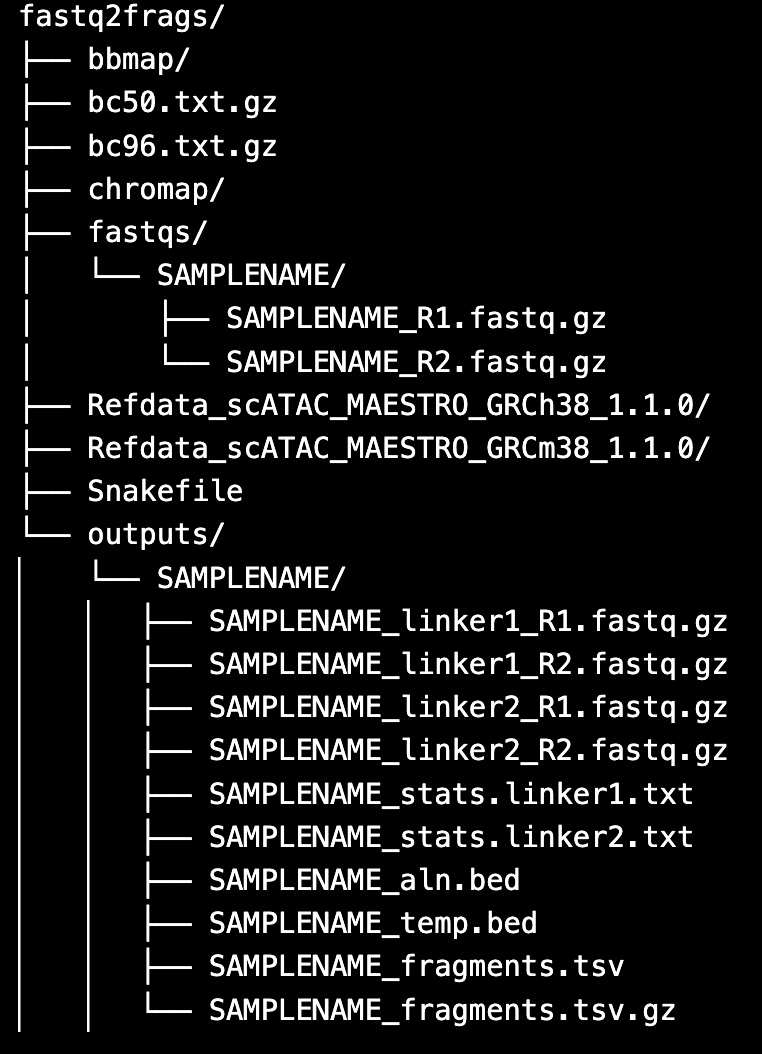
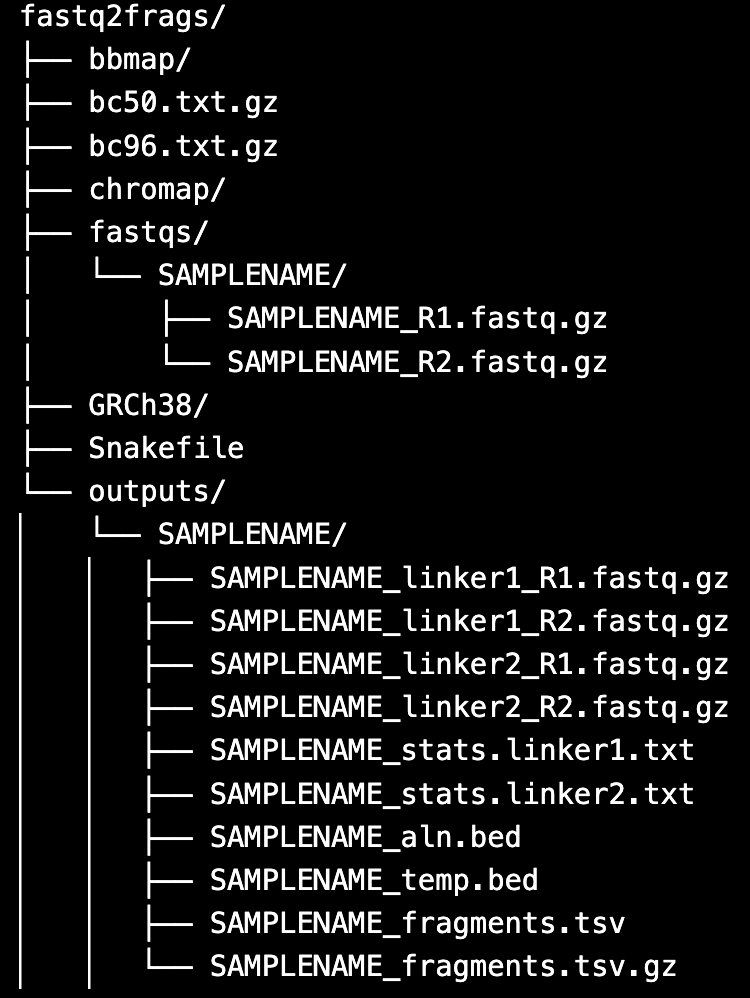
update fastq2frags README

diff --git a/fastq2frags/README.md b/fastq2frags/README.md
@@ -17,43 +17,78 @@ The fastq2frags pipeline requires the barcoding schema described in [Zhang et al
 3. Convert the output file from the [BED format](https://genome.ucsc.edu/FAQ/FAQformat.html#format1) to a fragments.tsv.gz file.
     
 ## setting up the environment
-The ‘fastq2frags' pipeline can be run in an AWS EC2 instance or other cloud computing resource.  We developed the pipeline in an EC2 instance running Red Hat Enterprise Linux 9 (RHEL 9) with 32 cores and 64GB of RAM (ami-08e637cea2f053dfa).  The pipeline requires at least 1 TB free of free disk space.  See below for instructions for setting up an environment for fastq2frags in RHEL 9.
+The ‘fastq2frags' pipeline can be run locally or in an AWS EC2 instance or other cloud computing resource.  We developed the pipeline in an EC2 instance running Red Hat Enterprise Linux 9 (RHEL 9) with 32 cores and 64GB of RAM (ami-08e637cea2f053dfa).  We recommend at least 1 TB free of free disk space for full experiments, but less can be used for testing.  See below for instructions on setting up an environment for fastq2frags in RHEL 9.
 
 **relevant package versions**
 - Chromap: li_dev4
 - BBMap: BBMap_39.01
 
-> For an example of running the pipeline in a high-performance cluster (HPC) see [here](https://github.com/di-0579/Spatial_epigenome-transcriptome_co-sequencing/tree/main/Data_preprocessing/Spatial-ATAC-seq).
+> For an example of running the pipeline in a high-performance cluster (HPC) see [here](https://github.com/di-0579/Spatial_epigenome-transcriptome_co-sequencing/tree/main/Data_preprocessing/Spatial-ATAC-seq). AtlasXomics does not support this repository.
 
-1. Install `git` and set up ssh [access](https://www.theodinproject.com/lessons/foundations-setting-up-git).
+1. Ensure `git` is installed.
     ```
     sudo dnf update 
     sudo dnf install git
+    ```
+    or, for Ubuntu,
+    ```
+    sudo apt-get update -y
+    sudo apt-get install -y git
     ```
 
 2. Install other dependencies. Java v-7 or greater is required to run bbmap. 
     ```
     sudo dnf install curl gcc gcc-c++ java-11-openjdk-devel make unzip zlib-devel
     ```
+    or
+    ```
+    sudo apt-get install curl default-jdk libz-dev
+    ```
 
-3. Install `bgzip`; in RHEL 9, `bgzip` in included as part of [htslib](http://www.htslib.org/download/).
+3. Install `bgzip`. In RHEL 9, `bgzip` in included as part of htslib; see download instructions [here](http://www.htslib.org/download/). For Ubuntu, it is part of the package `tabix`.
+    ```
+    sudo apt-get install tabix
+    ```
 
 4. Clone the [ATC_ATAC-seq](https://github.com/atlasxomics/ATX_ATAC-seq/) repository.
     ```
-    git clone git@github.com:atlasxomics/ATX_ATAC-seq.git 
+    git clone https://github.com/atlasxomics/ATX_epigenomics.git
+    ```
+    Once the repository has been cloned, navigate to `ATX_epigenomics/fastq2frags`. 
+    ```
+    cd ATX_epigenomics/fastq2frags/
     ```
 
-5. In the ATX_ATAC-seq/fastq2frags directory, download and install [chromap](https://github.com/haowenz/chromap#install).
+5. Download and install [chromap](https://github.com/haowenz/chromap#install) into the `fastq2frag` directory.
     ```
     curl -L https://github.com/haowenz/chromap/archive/refs/heads/li_dev4.zip -o li_dev4.zip
     unzip li_dev4.zip
     mv chromap-li_dev4 chromap
     cd chromap && make
     ```
+    Once `chromap` has been installed, navigate back to `ATX_epigenomics/fastq2frags`. 
+    ```
+    cd ..
+    ```
 
-6. Download a reference genome to the fastq2frags directory and create an index for Chromap [index](https://github.com/haowenz/chromap#general).
-For access to premade indices and reference genomes for human (GRCh38) and mouse (GRCm38), please contact your AtlasXomics support scientist or 
-email (support@atlasxomics.com).
+6. Download a reference genome to the fastq2frags directory. Premade indices and reference genomes for human (GRCh38), mouse (GRCm38), and rat (Rnor6) can be downloaded via the links below:
+- GRCh38:
+    - GUI: https://console.latch.bio/s/17114493928624682
+    - URL: https://latch-public.s3.amazonaws.com/test-data/13502/chromap_references/GRCh38.tar.gz
+- GRCm38
+    - GUI: https://console.latch.bio/s/17114488994250799
+    - URL: https://latch-public.s3.amazonaws.com/test-data/13502/chromap_references/GRCm38.tar.gz
+- Rnor6
+    - GUI: https://console.latch.bio/s/17114503950478690
+    - URL: https://latch-public.s3.amazonaws.com/test-data/13502/chromap_references/Rnor6.tar.gz
+
+    Compressed tar references can be download with `curl` or `wget` and extracted:
+    ```
+    wget https://latch-public.s3.amazonaws.com/test-data/13502/chromap_references/GRCm38.tar.gz
+    tar -xzvf GRCm38.tar.gz
+    ```
+
+    See Chromap documentation for how to prepare a custom genome [index](https://github.com/haowenz/chromap#general). 
 
 7. Download [bbmap](https://jgi.doe.gov/data-and-tools/software-tools/bbtools/bb-tools-user-guide/installation-guide/) into the fastq2frags repository.
     ```
@@ -63,14 +98,23 @@ email (support@atlasxomics.com).
 
 8. Install [mambaforge](https://snakemake.readthedocs.io/en/stable/tutorial/setup.html#step-1-installing-mambaforge).
     ```
-    curl -L https://github.com/conda-forge/miniforge/releases/latest/download/Mambaforge-Linux-x86_64.sh -o Mambaforge-Linux-x86_64.sh
-    bash Mambaforge-Linux-x86_64.sh
+    curl -L https://github.com/conda-forge/miniforge/releases/latest/download/Miniforge3-Linux-x86_64.sh -o Miniforge3-Linux-x86_64.sh
+    bash Miniforge3-Linux-x86_64.sh
     ```
 
 9. Install [snakemake](https://snakemake.readthedocs.io/en/stable/index.html) into a new conda environment.
     ```
-    conda activate base
-    mamba create -c conda-forge -c bioconda -n snakemake snakemake
+    conda create -c conda-forge -c bioconda -c nodefaults -n snakemake snakemake
+    ```
+    The snakemake enviroment can be activated with,
+    ```
+    conda activate snakemake
+    ```
+
+10. Make a directory called 'fastqs'.  Within 'fastqs', make a subfolder named with your sample name.  If analyzing more than one sample, you make make a directory for each. Move or download FASTQ files for the sample into the corresponding sample subfolder.
+    ```
+    mkdir fastqs
+    mkdir fastqs/test_dataset_50m
     ```
 
 When the environment has been correctly setup, the fastq2frags directory should have the following structure:
@@ -80,7 +124,7 @@ When the environment has been correctly setup, the fastq2frags directory should 
 </div>
 
 ## running the pipeline
-1. Upload fastq files into the fastqs directory in a subdirectory named with the sample name: ie. fastq2frags/fastq/SAMPLENAME/[SAMPLENAME_R1.fastq.gz, SAMPLENAME_R2.fastq.gz]
+1. Upload fastq files into the 'fastqs' directory in a subdirectory named with the sample name: ie. fastq2frags/fastq/SAMPLENAME/[SAMPLENAME_R1.fastq.gz, SAMPLENAME_R2.fastq.gz]
 
 - AtlasXomics delivers fastq files via [latch.bio](https://latch.bio/); to facilitate transferring data from latch, you may want to install **latch cli**.
     ```
@@ -94,10 +138,10 @@ When the environment has been correctly setup, the fastq2frags directory should 
 * Check that `BARCODE_FILE` points to the correct .txt.gz barcode 'whitelist' file.  Use bc50.txt.gz or bc96.txt.gz for 50-channel and 96-channel chips, respectively.
 * Check that `CORES` contains the correct number of available cores for the pipeline.  Here, we set the value to 32.
 
-4. Activate the snakemake environment and run the workflow.  The parameter -c can be set a specified number of cores (ie. 32); see snakemake [docs](https://snakemake.readthedocs.io/en/stable/executing/cli.html#command-line-interface).
+4. Activate the snakemake environment and run the workflow.  The parameter -c can be set a specified number of cores (ie. 8); see snakemake [docs](https://snakemake.readthedocs.io/en/stable/executing/cli.html#command-line-interface).
     ```
     conda activate snakemake
-    snakemake -c
+    snakemake -c 8
     ```
 
 5. Once the workflow has completed, the fastq2frags directory should have the following structure.  The fragments.tsv.gz file can be used directly in downstream processing (see the [analysis](../analysis/) directory for a tutorial on downstream processing).
